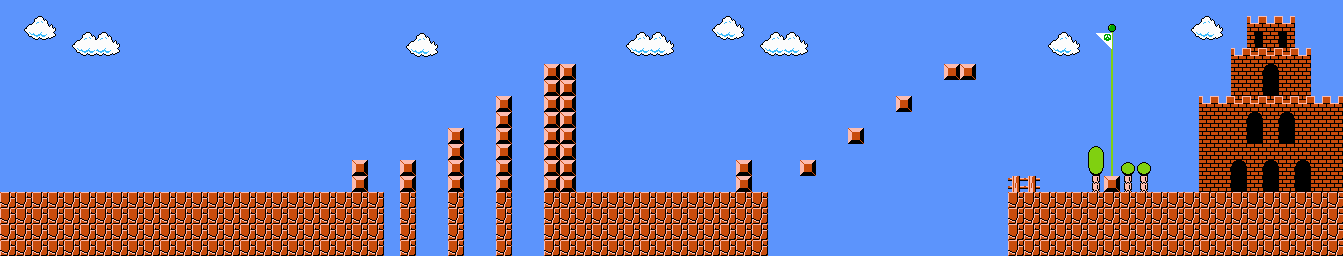
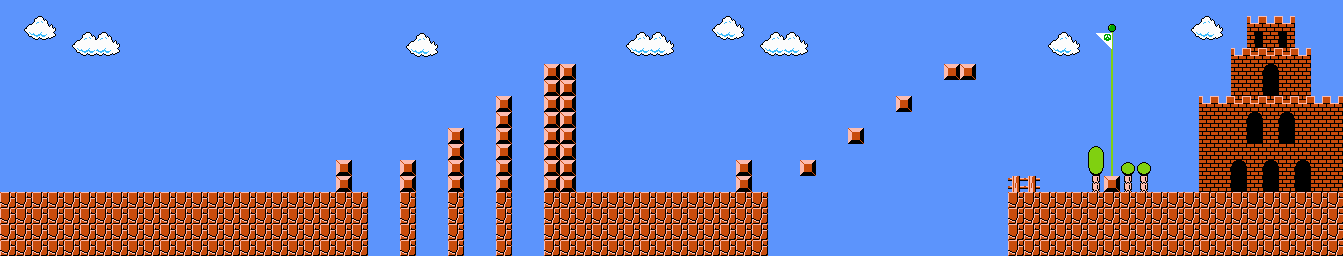
mario jump 2

Changed region(s): [[0.2748, 0.75, 0.3053, 1.0], [0.2442, 0.625, 0.2748, 0.75]]

diff --git a/src/stages/Mario_Stage.js b/src/stages/Mario_Stage.js
@@ -25,11 +25,11 @@ const room1 = new Room({
     {
       x: 0,
       y: 12,
-      widthCells: 24, // 82,
+      widthCells: 23, // 82,
       heightCells: 1,
     },
     {
-        x: 22,
+        x: 21,
         y: 10,
         widthCells: 1, // 82,
         heightCells: 3,
